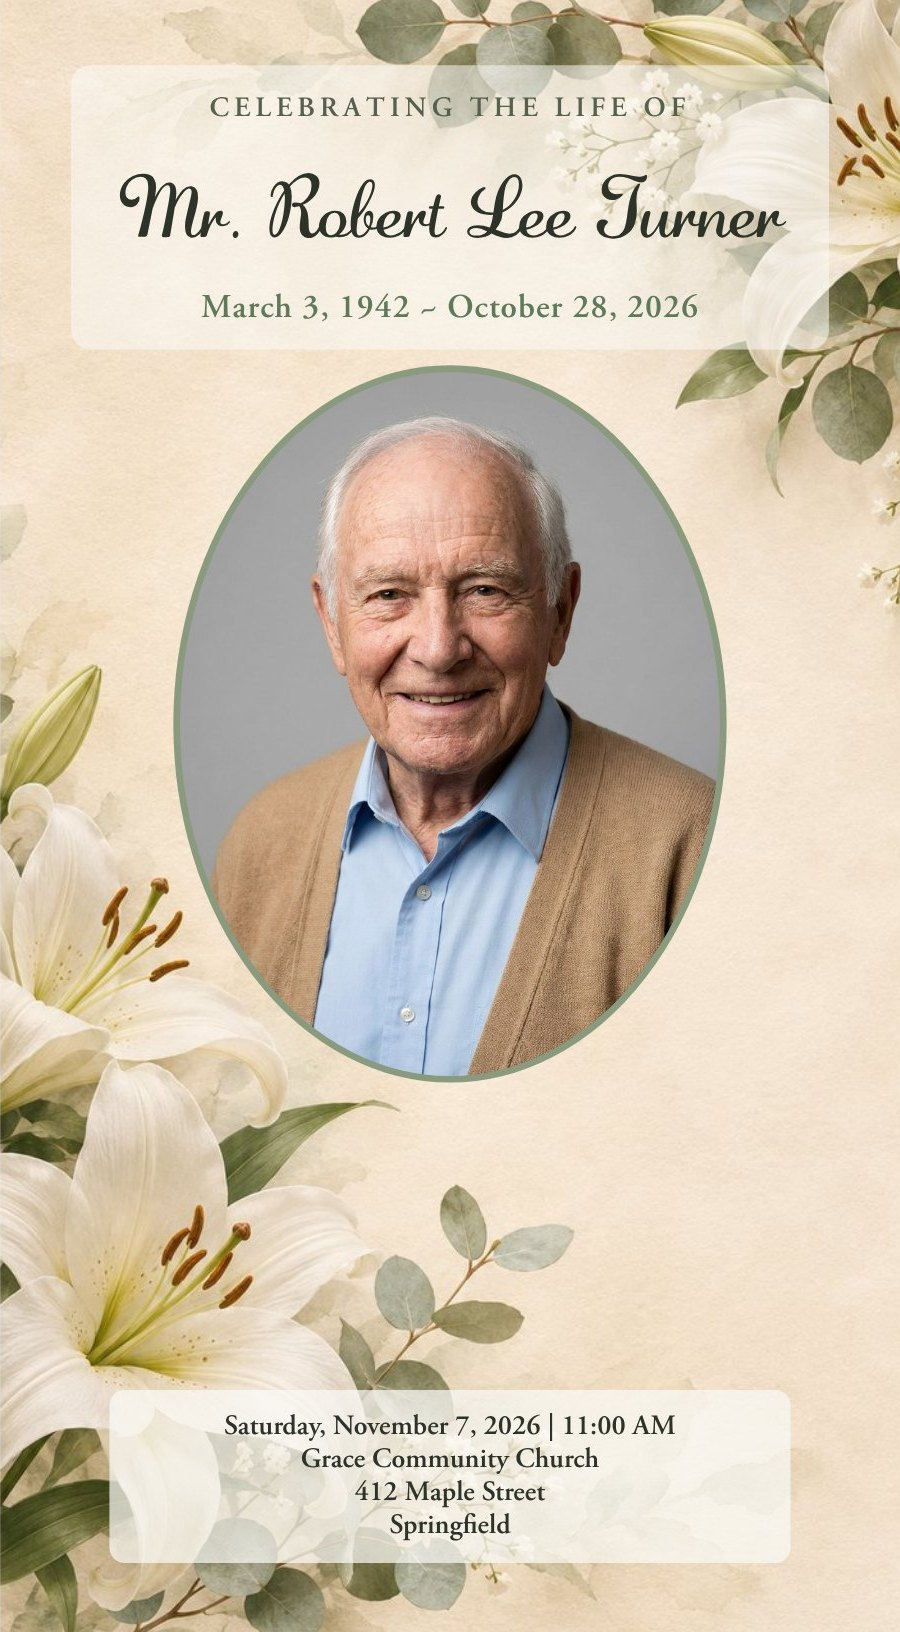
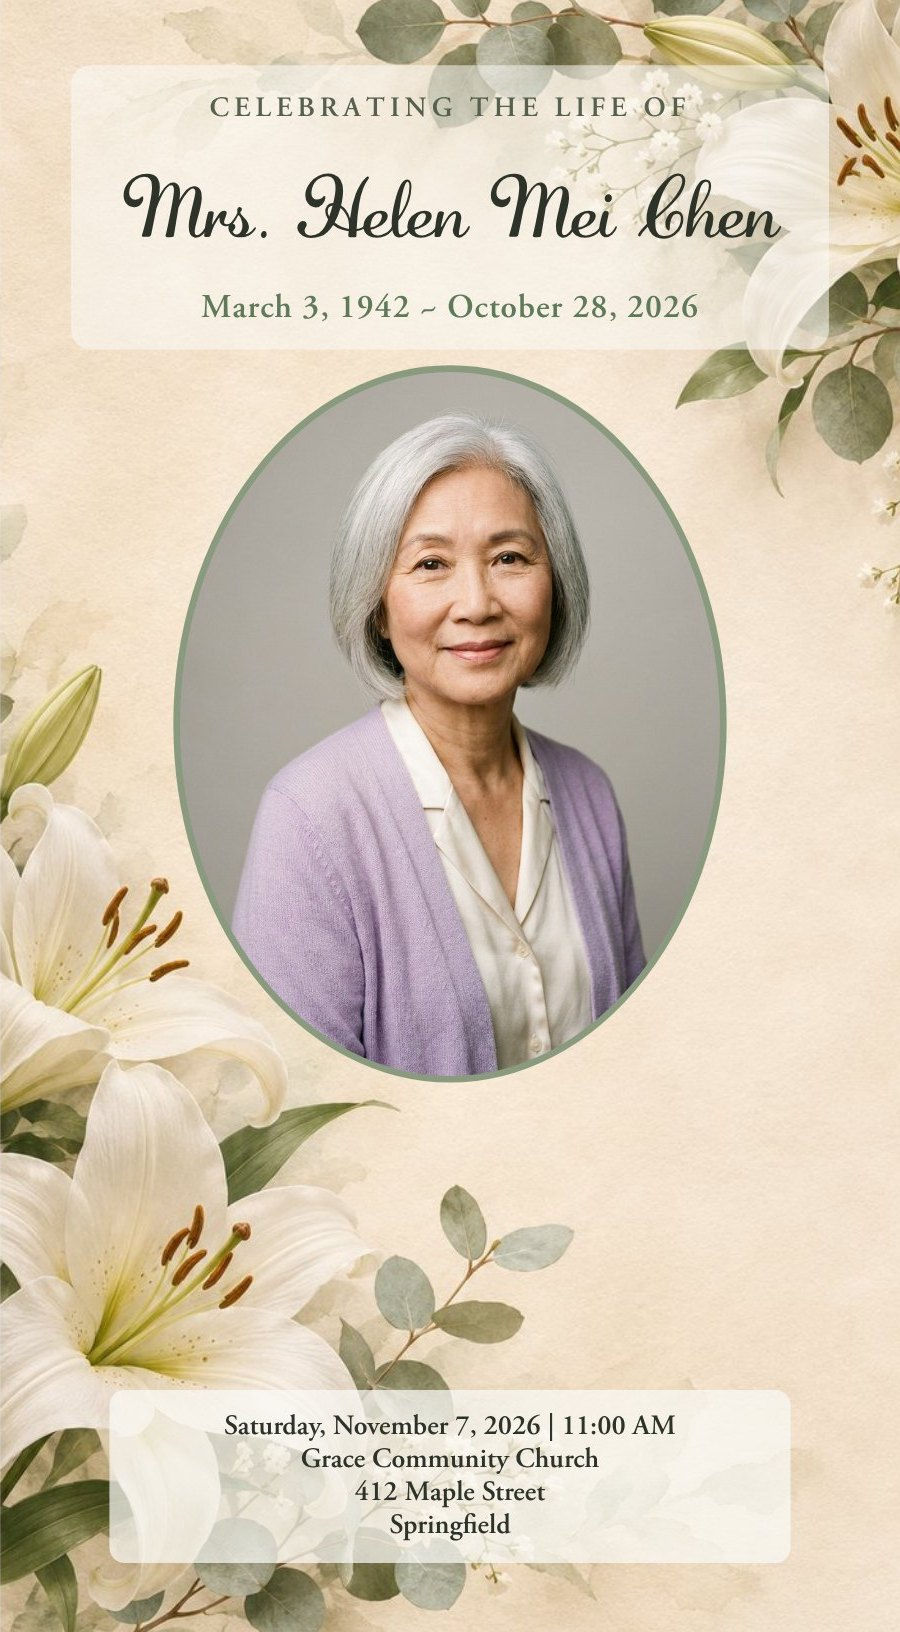
Sample photos: cut-out versions of all six portraits
- The five new portraits cut out with the site's own remover (MODNet, same settings), so the six designs that preview a cut-out portrait now rotate through everyone too
- Floral and pink designs open with one of the women; Gone Fishing with a man
- Preview images regenerated

Claude-Session: https://claude.ai/code/session_0156pdi9V1ebMvpSVLSuGcoY

Changed region(s): [[0.2178, 0.25, 0.8089, 0.6562], [0.1244, 0.0938, 0.8711, 0.1562]]

diff --git a/kemp-sons-site/src/editor/templates/funeral-shared.ts b/kemp-sons-site/src/editor/templates/funeral-shared.ts
@@ -93,17 +93,19 @@ export interface Persona {
   last: string
   he: boolean
   portrait: string
+  /** The portrait with its background removed, for designs that show it cut out. */
+  cutout: string
   /** Spouse, for the men's obituary. */
   spouse?: string
 }
 
 export const PERSONAS: Persona[] = [
-  { title: 'Mrs.', first: 'Margaret', middle: 'Ellen', last: 'Hayes', he: false, portrait: '/kiosk/samples/portrait.jpg' },
-  { title: 'Mrs.', first: 'Dorothy', middle: 'Mae', last: 'Williams', he: false, portrait: '/kiosk/samples/portrait-dorothy.jpg' },
-  { title: 'Mr.', first: 'James', middle: 'Earl', last: 'Johnson', he: true, spouse: 'Ruth', portrait: '/kiosk/samples/portrait-james.jpg' },
-  { title: 'Mrs.', first: 'Rosa', middle: 'Maria', last: 'Delgado', he: false, portrait: '/kiosk/samples/portrait-rosa.jpg' },
-  { title: 'Mr.', first: 'Robert', middle: 'Lee', last: 'Turner', he: true, spouse: 'Betty', portrait: '/kiosk/samples/portrait-robert.jpg' },
-  { title: 'Mrs.', first: 'Helen', middle: 'Mei', last: 'Chen', he: false, portrait: '/kiosk/samples/portrait-helen.jpg' },
+  { title: 'Mrs.', first: 'Margaret', middle: 'Ellen', last: 'Hayes', he: false, portrait: '/kiosk/samples/portrait.jpg', cutout: '/kiosk/samples/portrait-cutout.png' },
+  { title: 'Mrs.', first: 'Dorothy', middle: 'Mae', last: 'Williams', he: false, portrait: '/kiosk/samples/portrait-dorothy.jpg', cutout: '/kiosk/samples/portrait-dorothy-cutout.png' },
+  { title: 'Mr.', first: 'James', middle: 'Earl', last: 'Johnson', he: true, spouse: 'Ruth', portrait: '/kiosk/samples/portrait-james.jpg', cutout: '/kiosk/samples/portrait-james-cutout.png' },
+  { title: 'Mrs.', first: 'Rosa', middle: 'Maria', last: 'Delgado', he: false, portrait: '/kiosk/samples/portrait-rosa.jpg', cutout: '/kiosk/samples/portrait-rosa-cutout.png' },
+  { title: 'Mr.', first: 'Robert', middle: 'Lee', last: 'Turner', he: true, spouse: 'Betty', portrait: '/kiosk/samples/portrait-robert.jpg', cutout: '/kiosk/samples/portrait-robert-cutout.png' },
+  { title: 'Mrs.', first: 'Helen', middle: 'Mei', last: 'Chen', he: false, portrait: '/kiosk/samples/portrait-helen.jpg', cutout: '/kiosk/samples/portrait-helen-cutout.png' },
 ]
 
 const manObituary = (p: Persona) =>

diff --git a/kemp-sons-site/src/editor/templates/index.ts b/kemp-sons-site/src/editor/templates/index.ts
@@ -18,14 +18,16 @@ import { ADDON_TEMPLATES } from './memorial-addons'
 
 /**
  * Funeral programs take turns opening with each sample person, so the
- * galleries show a range of families. Designs whose sample shows a cut-out
- * portrait keep Margaret, the one sample with a cut-out.
+ * galleries show a range of families.
  */
 function withSamplePerson(t: Template, i: number): Template {
   if (t.category !== 'funeral-programs') return t
-  const cutout = t.fields.some((f) => f.type === 'photo' && f.removeBackground)
-  const p = cutout ? PERSONAS[0] : PERSONAS[i % PERSONAS.length]
-  return { ...withPersona(t, p), samplePortrait: p.portrait }
+  // Floral and pink designs open with a woman; the fishing design with a man.
+  const want = /pink|tulip|lilac|rose|lavender|hydrangea|lily|butterfly/.test(t.id) ? false : /fishing/.test(t.id) ? true : null
+  let k = i
+  while (want !== null && PERSONAS[k % PERSONAS.length].he !== want) k++
+  const p = PERSONAS[k % PERSONAS.length]
+  return { ...withPersona(t, p), samplePortrait: p.portrait, sampleCutout: p.cutout }
 }
 
 /** Every template on the site. Add new ones here. */

diff --git a/kemp-sons-site/src/editor/render.tsx b/kemp-sons-site/src/editor/render.tsx
@@ -117,8 +117,9 @@ async function samplePhotos(t: Template, seed: number): Promise<Record<string, P
       const img = await loadImage(src).catch(() => null)
       if (!img) return
       // Cut-out designs show the portrait cut out, as customers now get by default.
-      if (cutout) await loadImage(SAMPLE_CUTOUT).catch(() => null)
-      photos[slot] = { src, w: img.naturalWidth, h: img.naturalHeight, ox: 0, oy: 0, zoom: 1, ...(cutout ? { cutout: SAMPLE_CUTOUT, useCutout: true } : {}) }
+      const cut = t.sampleCutout ?? SAMPLE_CUTOUT
+      if (cutout) await loadImage(cut).catch(() => null)
+      photos[slot] = { src, w: img.naturalWidth, h: img.naturalHeight, ox: 0, oy: 0, zoom: 1, ...(cutout ? { cutout: cut, useCutout: true } : {}) }
     }),
   )
   return photos

diff --git a/kemp-sons-site/src/editor/types.ts b/kemp-sons-site/src/editor/types.ts
@@ -239,6 +239,8 @@ export interface Template {
   shopifyHandle: string
   /** Sample portrait for gallery previews (matches the sample name). */
   samplePortrait?: string
+  /** The same portrait cut out, for designs that preview it without its background. */
+  sampleCutout?: string
   /** Offer addressed envelopes with this template (e.g. A7 for 5 x 7 cards). */
   envelope?: import('./envelopes').EnvelopeSpec
   /** Which side the thumbnail shows. Defaults to the first. */
